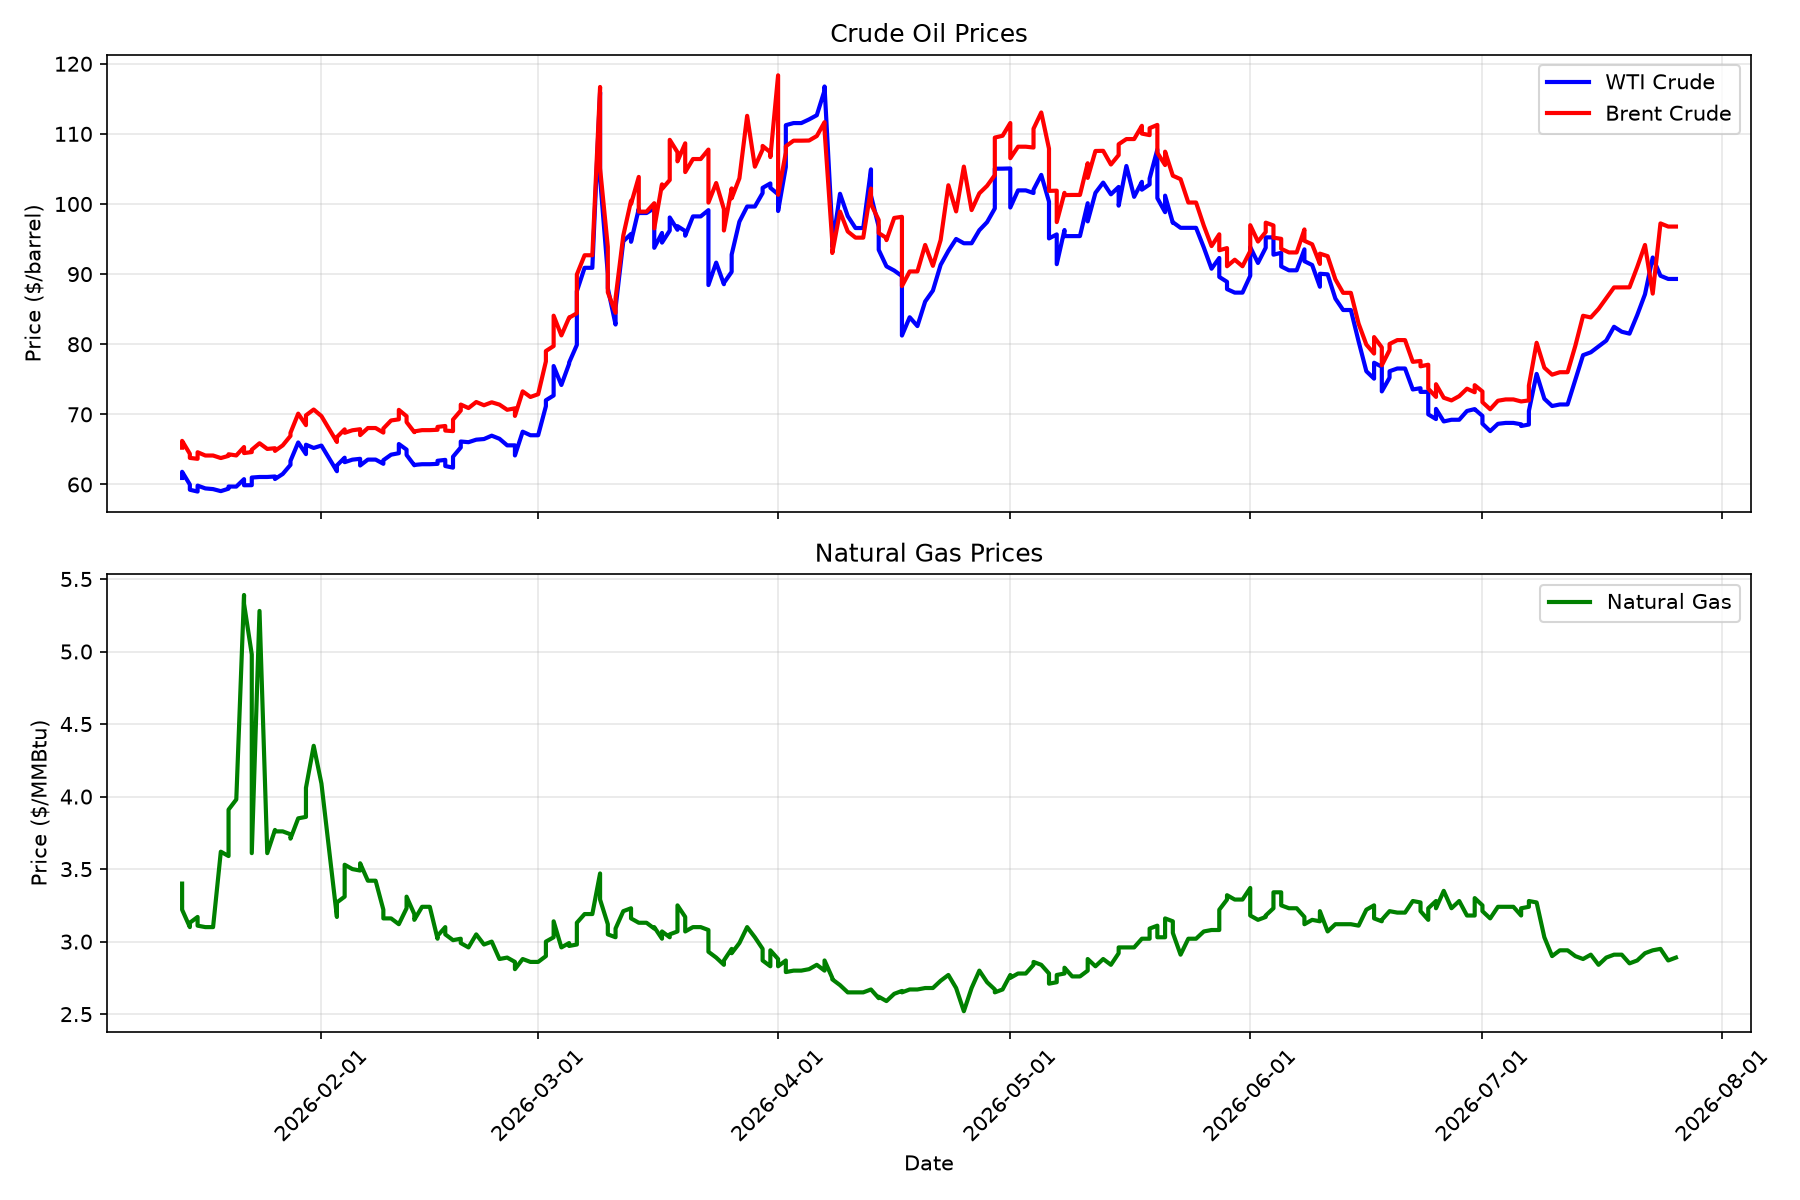
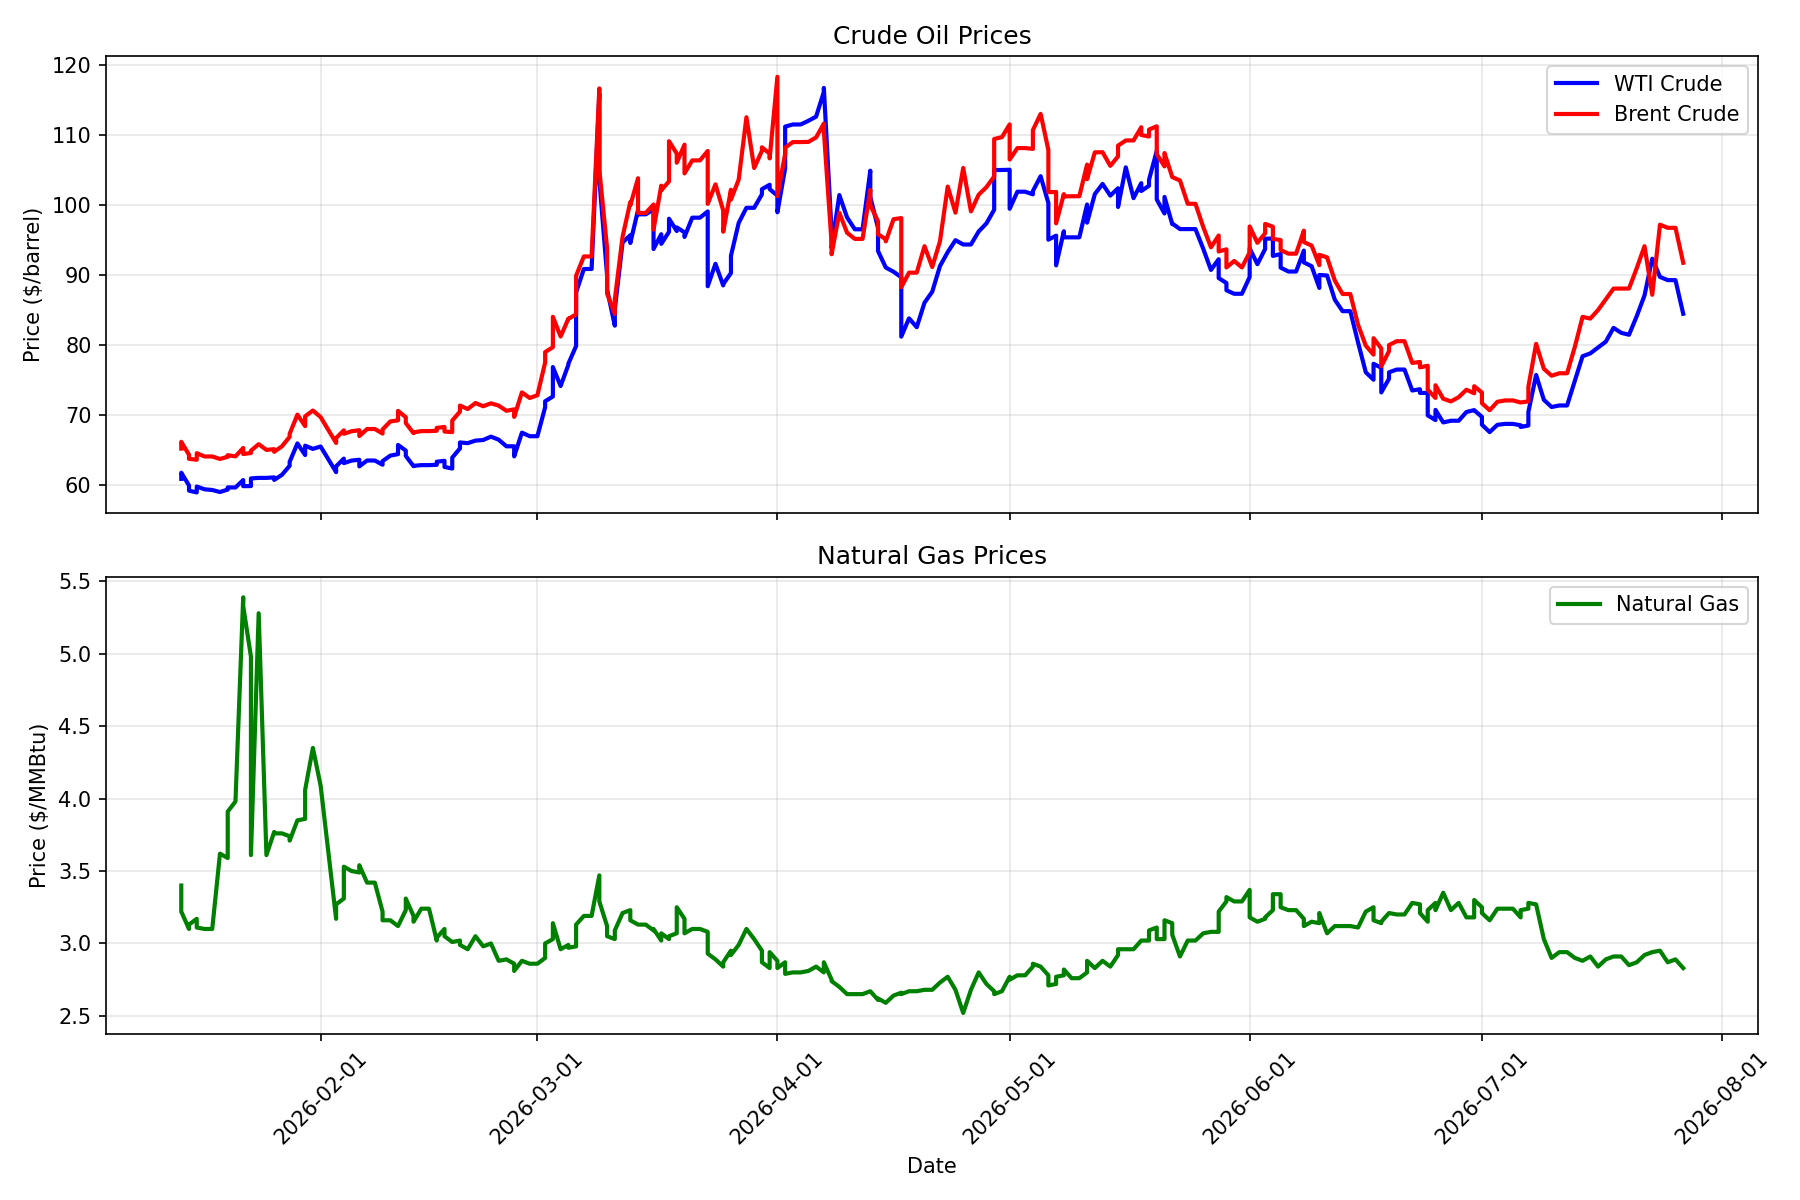
Daily price update: 2026-07-27

diff --git a/README.md b/README.md
@@ -2,16 +2,16 @@
 
 Automated daily tracking of chemical commodity prices and chemical company stocks.
 
-## Latest Prices (Updated: 2026-07-26)
+## Latest Prices (Updated: 2026-07-27)
 
 ### Energy Commodities
 
 | Commodity | Price | Change (24h) | Unit |
 |-----------|-------|--------------|------|
-| WTI Crude Oil | $89.31 | +0.00 (+0.00%) | $/barrel |
-| Brent Crude Oil | $96.78 | +0.00 (+0.00%) | $/barrel |
-| Natural Gas | $2.89 | +0.00 (+0.00%) | $/MMBtu |
-| Heating Oil | $4.10 | +0.00 (+0.00%) | $/gallon |
+| WTI Crude Oil | $84.51 | +0.00 (+0.00%) | $/barrel |
+| Brent Crude Oil | $91.79 | +0.00 (+0.00%) | $/barrel |
+| Natural Gas | $2.83 | +0.00 (+0.00%) | $/MMBtu |
+| Heating Oil | $4.01 | +0.00 (+0.00%) | $/gallon |
 
 ### Chemical Company Stocks
 
@@ -24,7 +24,7 @@ Automated daily tracking of chemical commodity prices and chemical company stock
 | Linde | LIN | $512.28 | +5.96 (+1.18%) |
 | Eastman Chemical | EMN | $68.20 | +0.28 (+0.41%) |
 | Celanese | CE | $46.43 | -0.92 (-1.94%) |
-| Huntsman | HUN | $nan | +nan (+nan%) |
+| Huntsman | HUN | $12.80 | -0.01 (-0.08%) |
 
 ## Data Sources
 

diff --git a/logs/update_log.md b/logs/update_log.md
@@ -309,3 +309,4 @@ Daily updates to the chemical engineering data repository.
 - **2026-07-24 15:19:39**: Updated 4 energy prices, 8 stocks, 0 FRED series
 - **2026-07-25 14:53:48**: Updated 4 energy prices, 8 stocks, 0 FRED series
 - **2026-07-26 14:55:50**: Updated 4 energy prices, 8 stocks, 0 FRED series
+- **2026-07-27 02:01:53**: Updated 4 energy prices, 8 stocks, 0 FRED series
